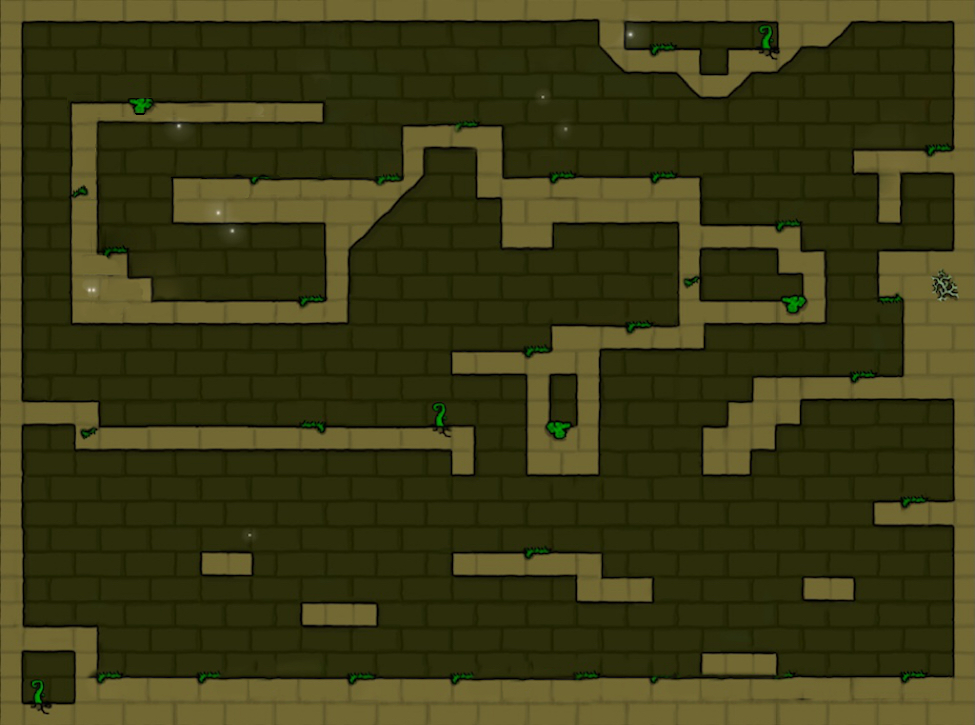
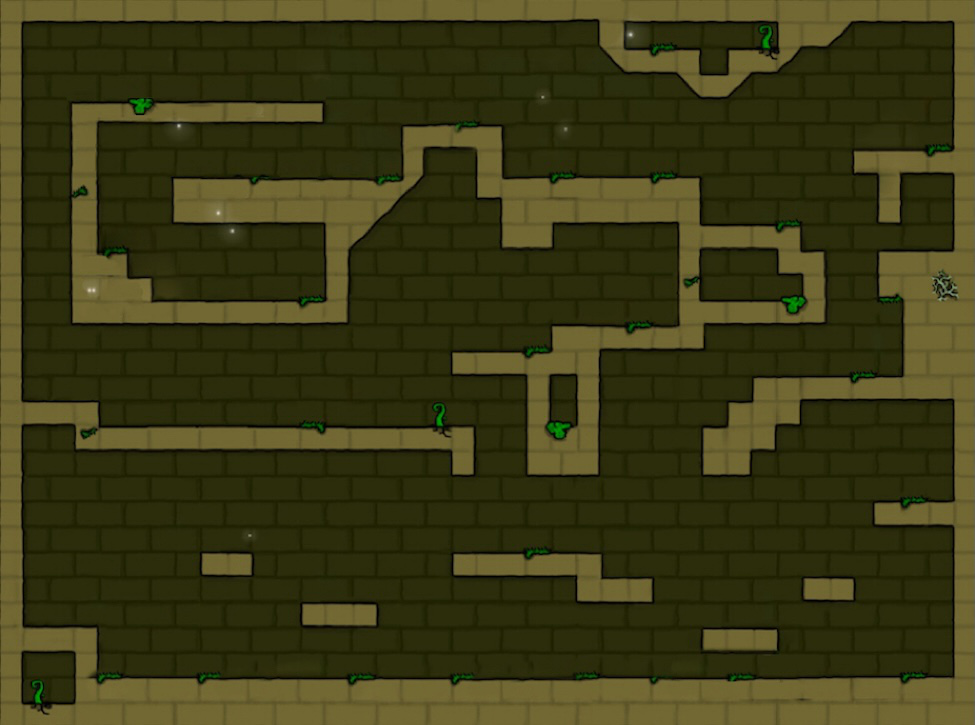
fix_level4_map

Changed region(s): [[0.7077, 0.8497, 0.8308, 0.9407]]

diff --git a/src/Level/Level4.cpp b/src/Level/Level4.cpp
@@ -28,7 +28,7 @@ bool Level4::Initialize() {
   InitGems(GemType::FIRE,
            {{8, 3}, {23, 6}, {24, 12}, {13, 23}, {15, 16}, {36, 3}});
   InitGems(GemType::WATER,
-           {{34, 14}, {29, 25}, {8, 11}, {26, 18}, {29, 8}, {11, 6}});
+           {{34, 14}, {29, 24}, {8, 11}, {26, 18}, {29, 8}, {11, 6}});
 
   // 初始化Trap
   InitLiquidTraps(CellType::WATER, SizeType::LARGE, {{11, 7}});
